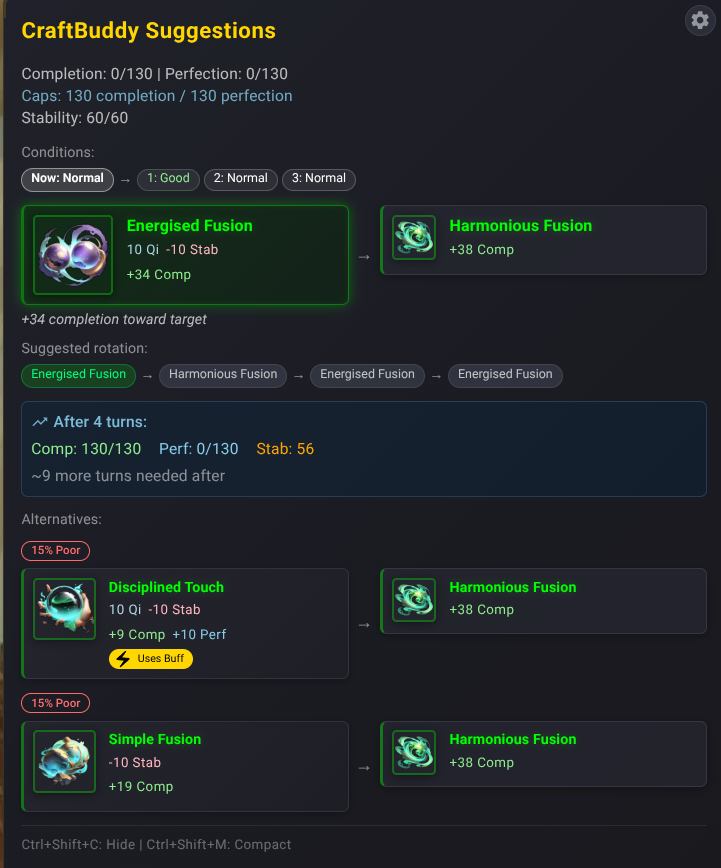
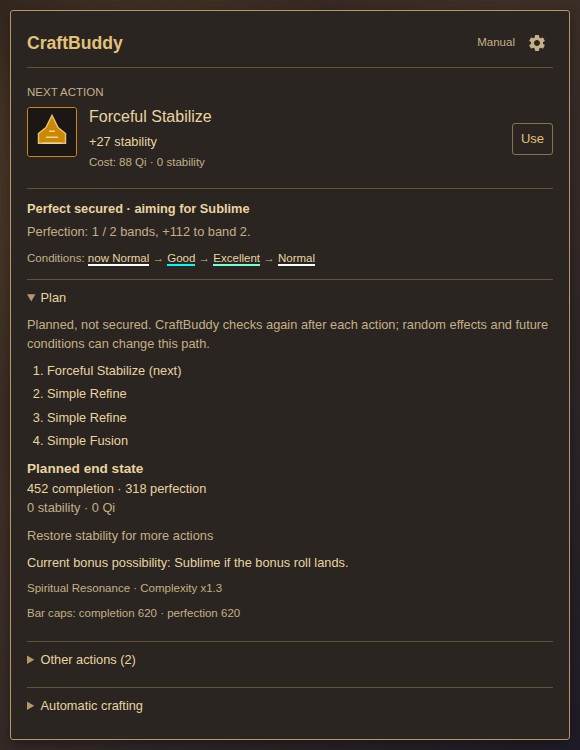
docs: describe the redesigned panel and settings and refresh screenshots

diff --git a/README.md b/README.md
@@ -16,7 +16,7 @@ Subscribe on the [Steam Workshop](https://steamcommunity.com/sharedfiles/filedet
 
 ## During a craft
 
-The panel shows the recommended action, expected gains/costs, reasoning and ranked alternatives. It follows conditions, buffs, mastery, toxicity and all nine harmonies, and coexists with the game's native auto-use loadout rather than spending the same pill twice.
+The panel shows the next action with its gains and costs, the outcome it is working towards and upcoming conditions. The plan, other actions and automatic crafting sit in sections you can expand. It follows conditions, buffs, mastery, toxicity and all nine harmonies, and coexists with the game's native auto-use loadout rather than spending the same pill twice.
 
 Outcome rows show the tier you are aiming for, each bar's bands and the bar holding the next tier back. There is no manual Finish button: crafts resolve when stability runs out or both bars reach their actual caps.
 
@@ -30,16 +30,16 @@ Outcome rows show the tier you are aiming for, each bar's bands and the bar hold
 
 ## Settings
 
-Open the panel's gear icon for the settings slide-over.
+Open settings from the panel's gear icon or from CraftBuddy's entry in the game's mod options screen; both edit the same settings.
 
 ![CraftBuddy settings](pictures/settings.png)
 
-- **Fast** is the default preset. **Instant** uses the lowest budget; Balanced, High Accuracy and Max spend more search effort. “Instant” is not a zero-latency guarantee.
-- Presets set depth, time, nodes and beam together. Raising one slider alone can waste work or reduce search quality; manual changes apply when you release the slider.
-- **Goal Priority** biases completion or perfection without changing tier requirements.
-- **Push Extra Bands** rewards progress beyond the secured tier. **Perfection Band Goal** asks for more perfection; **Completion Band Ceiling** stops rewarding completion beyond the chosen band, never below the tier requirement. Zero means Auto.
+- **Fast** is the default preset. **Instant** uses the lowest budget; Balanced, High accuracy and Max spend more search effort. “Instant” is not a zero-latency guarantee.
+- Presets set all four **Advanced search** sliders (turns to look ahead, time per turn, states to explore, branches to keep) together. Raising one slider alone can waste work or reduce search quality; manual changes apply when you release the slider.
+- **Prefer perfection or completion** biases the search without changing tier requirements.
+- **Aim for extra bands** rewards progress beyond the secured tier. **Perfection band goal** asks for more perfection; **Completion band ceiling** stops rewarding completion beyond the chosen band, never below the tier requirement. Zero means Auto.
 - Band widths grow by 1.3×: two bands are about 230% of the recipe target, not 200%. Sublime requires two bands on each bar.
-- Recommendations use the established TypeScript search. Display and worker-thread options are also available.
+- Recommendations use the established TypeScript search. Display options and background workers are also available.
 
 Search stops at its time or node limit. Equal millisecond settings can reach different frontiers on different machines; reproducible comparisons use fixed node budgets with a nonbinding clock, not a promise that a preset always picks the same action.
 

diff --git a/docs/WORKSHOP_DESCRIPTION.md b/docs/WORKSHOP_DESCRIPTION.md
@@ -60,7 +60,7 @@ CraftBuddy tells you when the craft will auto-finish; there is no manual finish 
 [hr][/hr]
 
 [h1]Settings & Configuration[/h1]
-Settings live behind the gear icon inside the CraftBuddy panel and open as a slide-over.
+Open settings from the gear icon on the CraftBuddy panel, or from CraftBuddy's entry in the game's mod options screen. Both edit the same settings.
 
 [h2]Search Presets[/h2]
 Pick a preset to adjust all four search parameters together.
@@ -68,30 +68,30 @@ Pick a preset to adjust all four search parameters together.
 [*] [b]Instant[/b] — lowest search budget, minimal lookahead (1-second time budget)
 [*] [b]Fast[/b] — quick results, good for simple crafts
 [*] [b]Balanced[/b] — more search time than Fast, for harder crafts
-[*] [b]High Accuracy[/b] — deeper search for complex or high-value crafts
+[*] [b]High accuracy[/b] — deeper search for complex or high-value crafts
 [*] [b]Max[/b] — maximum depth, may take several seconds per recommendation
 [/list]
 
-[h2]Manual Search Controls[/h2]
+[h2]Advanced Search[/h2]
 These sliders work together; pushing one far above the others can waste search time.
 [list]
-[*] [b]Lookahead Depth[/b]
-[*] [b]Search Time Budget[/b]
-[*] [b]Search Max Nodes[/b]
-[*] [b]Search Beam Width[/b]
+[*] [b]Turns to look ahead[/b]
+[*] [b]Time per turn[/b]
+[*] [b]States to explore[/b]
+[*] [b]Branches to keep[/b]
 [/list]
 Search stops as soon as either the time budget or the node budget is reached. Results vary with craft complexity and machine speed, since the time budget is wall-clock based.
 
 [h2]Ambition Targets[/h2]
 Both use bands ("stars") and default to [b]Auto[/b], following your target outcome tier.
 [list]
-[*] [b]Perfection Band Goal[/b] — aim for extra perfection bands, bounded by the recipe cap, without lowering the tier requirement.
-[*] [b]Completion Band Ceiling[/b] — stop rewarding completion past your chosen band, never below what the target tier needs.
+[*] [b]Perfection band goal[/b] — aim for extra perfection bands, bounded by the recipe cap, without lowering the tier requirement.
+[*] [b]Completion band ceiling[/b] — stop rewarding completion past your chosen band, never below what the target tier needs.
 [/list]
 [b]Why bars "stop" around 200%:[/b] band widths grow by 1.3x each, so the bands land at roughly 100% / 230% / 399% / 619% / 904% of the recipe target. Sublime needs two bands on both bars — about 230% — and once that is banked the craft has met its gate. If you want to push further, that is what these two targets are for.
 
 [h2]Display Options[/h2]
-Toggle predicted rotation, final state estimates, upcoming conditions and alternative actions independently.
+Show or hide the panel, use compact spacing and choose whether to show upcoming conditions. The plan, other actions and automatic crafting are collapsible sections on the panel.
 
 [hr][/hr]
 

diff --git a/docs/DEVELOPMENT.md b/docs/DEVELOPMENT.md
@@ -47,7 +47,7 @@ Condition transitions, known-technique resolution, completion-bonus naming, over
 
 CraftBuddy has no native action-cost wrapper; costs are locally simulated. Native `getActionCost` is an individual preview, not the finalized mastery-aware payment oracle requested in [API requests](API_REQUESTS.md). Likewise, declaration/probe presence for condition/stat helpers is not proof that a production path calls them. Native scaling is deliberately not used inside search because a live provider can disagree on hypothetical future-state variables.
 
-`onReduxAction` runs during the reducer; read-only observation there avoids nested-dispatch hazards. `modAPI.gameData.registerOptionsUI` and top-level `modAPI.injectUI` are available, but current mounting uses `overlayMount.ts`, not those APIs. Localization through `actions.addTranslation` and a native overlay host are candidates, not completed migrations.
+`onReduxAction` runs during the reducer; read-only observation there avoids nested-dispatch hazards. The overlay mounts through `overlayMount.ts`. The settings also register as a native options screen through `modAPI.gameData.registerOptionsUI` (on `gameData` in the installed bundle, despite the published types); both views share one settings store via `subscribeSettings`. Top-level `modAPI.injectUI` is available but unused. Localization through `actions.addTranslation` and a native overlay host are candidates, not completed migrations.
 
 ### Automation
 

diff --git a/CHANGELOG.md b/CHANGELOG.md
@@ -4,6 +4,8 @@
 
 - Retire the opt-in Rust/WASM MCTS prior and engine selector; the established TypeScript search and its preset budgets are unchanged.
 - Preserve old settings/replay compatibility and retain the 1,588-transition corpus as a TypeScript golden test. Builds no longer require Rust or wasm-pack.
+- Redesign the panel and settings in the game's own style: one clear next action, the outcome being worked towards, and collapsible plan, other-action and automation sections. Settings use plain names, are keyboard and screen-reader friendly, and also appear in the game's mod options screen.
+- Show "Craft failed" when a craft resolves below the lowest tier.
 
 ## 6.9.0 — AFNM 0.7.19
 
